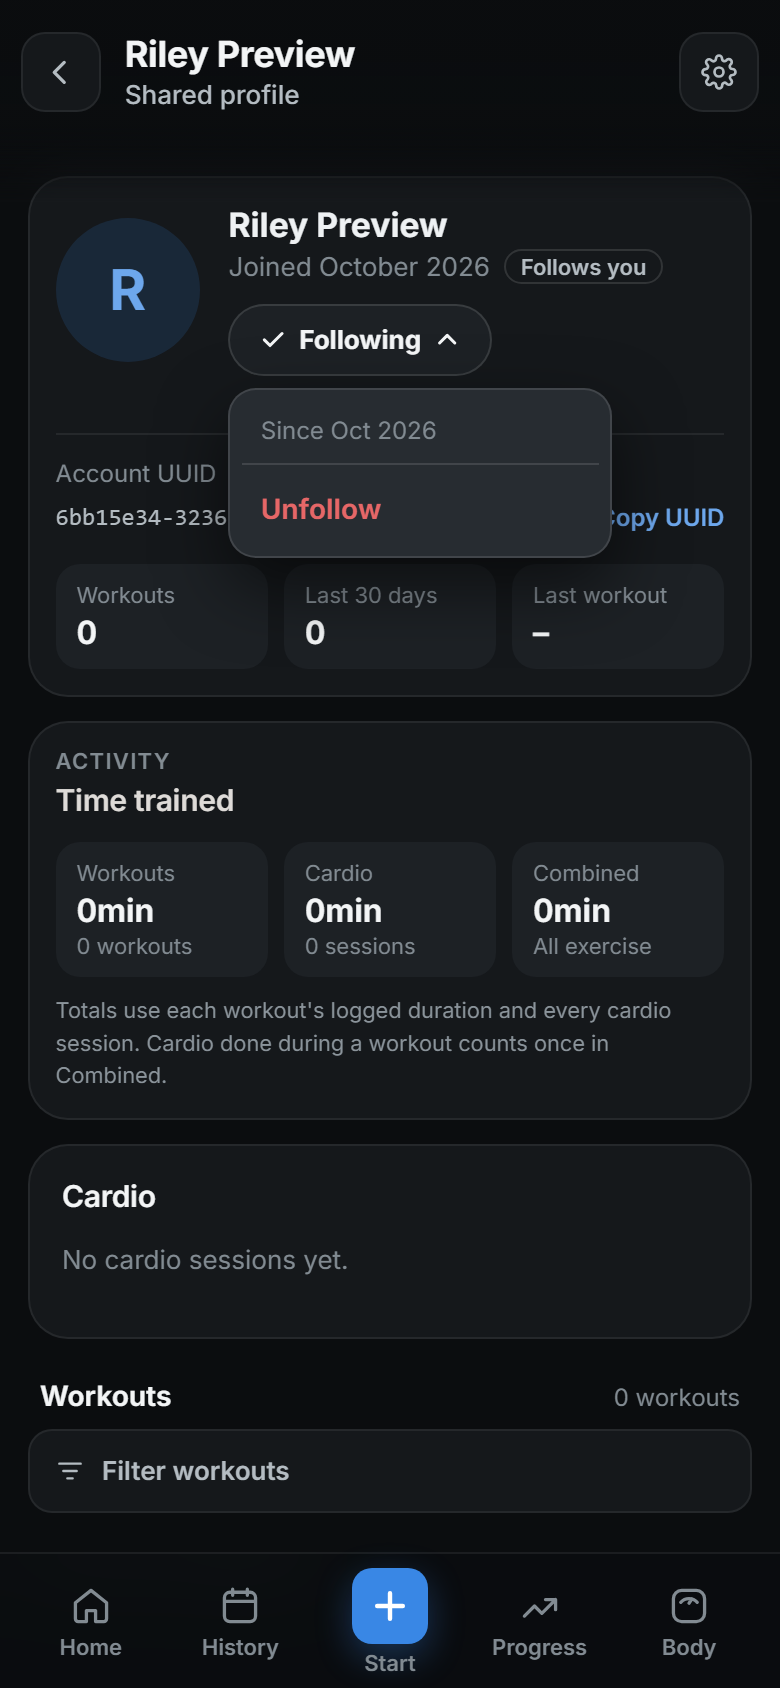
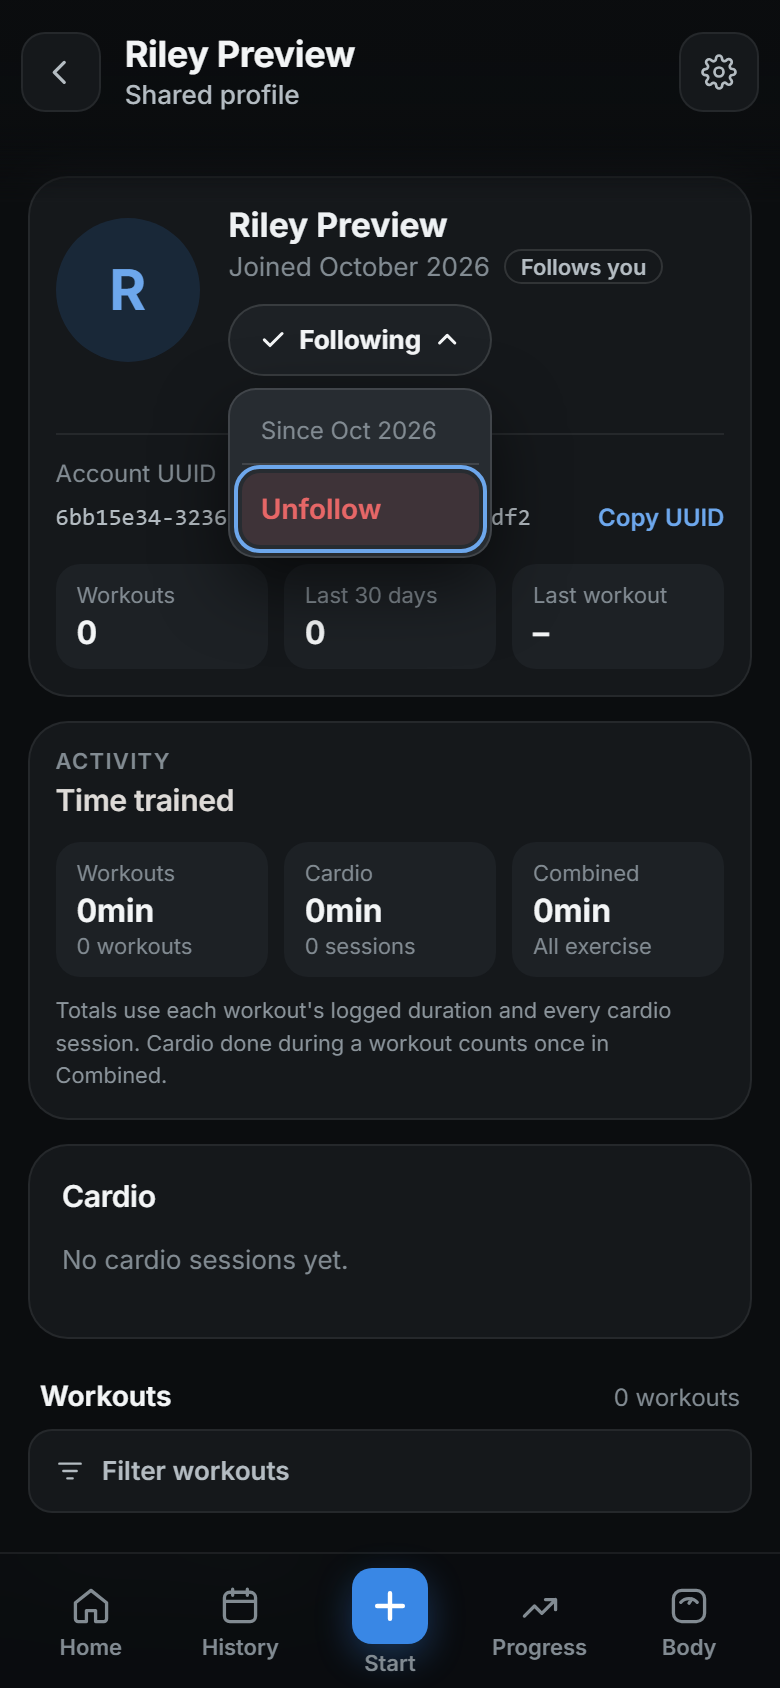
Narrow the profile follow menu to the button width

diff --git a/frontend/src/sharing.css b/frontend/src/sharing.css
@@ -213,7 +213,8 @@
   z-index: 6;
   top: calc(100% + 0.4rem);
   left: 0;
-  min-width: 12rem;
+  width: max-content;
+  min-width: 100%;
   border: 1px solid var(--p-line-strong);
   border-radius: 14px;
   padding: 0.35rem;
